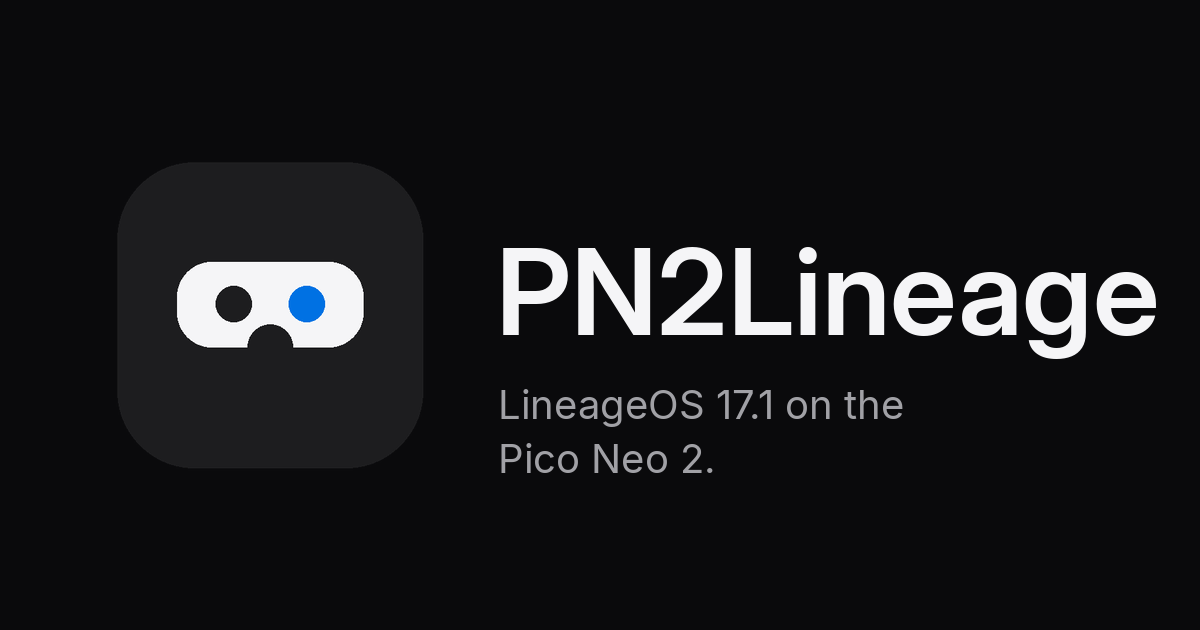
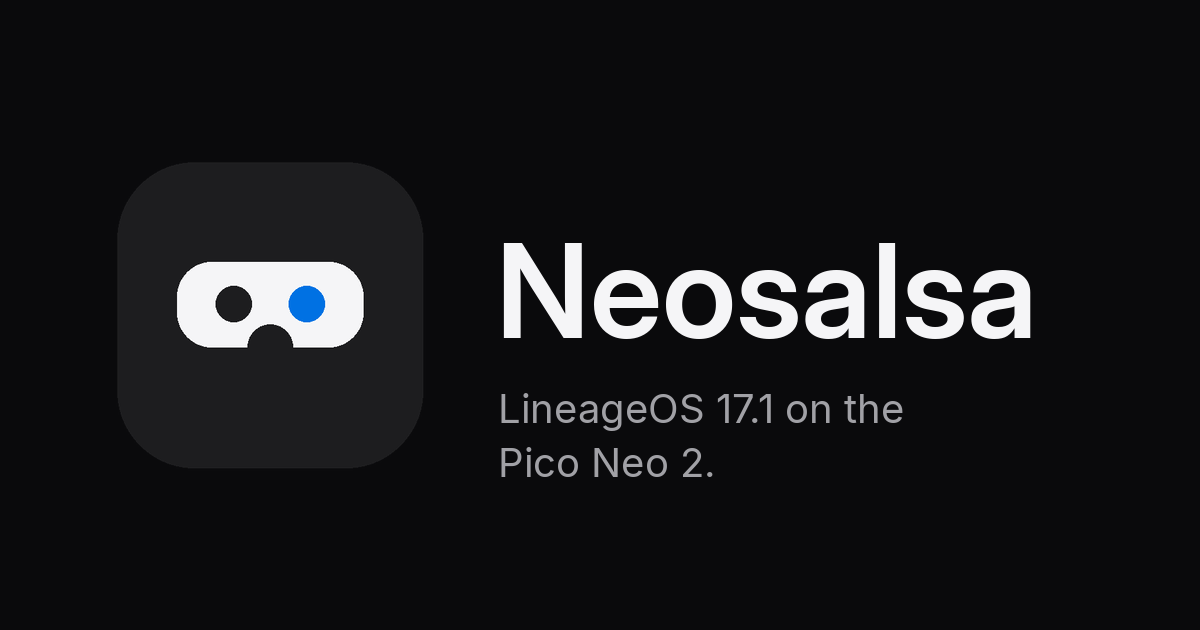
项目改名 Neosalsa

Changed region(s): [[0.4317, 0.3921, 0.9867, 0.573], [0.4008, 0.6032, 0.7708, 0.754]]

diff --git a/website/web/index.html b/website/web/index.html
@@ -5,12 +5,12 @@
 
   <meta charset="UTF-8">
   <meta content="IE=Edge" http-equiv="X-UA-Compatible">
-  <meta name="description" content="PN2Lineage - LineageOS 17.1 running on the Pico Neo 2 VR headset.">
+  <meta name="description" content="Neosalsa - LineageOS 17.1 running on the Pico Neo 2 VR headset.">
   <meta name="theme-color" content="#fbfbfd">
   <meta name="color-scheme" content="light dark">
 
   <meta property="og:type" content="website">
-  <meta property="og:title" content="PN2Lineage">
+  <meta property="og:title" content="Neosalsa">
   <meta property="og:description" content="LineageOS 17.1 on the Pico Neo 2 - vendor untouched, VR stack restored, all research in the open.">
   <meta property="og:image" content="og-cover.png">
   <meta name="twitter:card" content="summary_large_image">
@@ -18,13 +18,13 @@
   <!-- iOS meta tags & icons -->
   <meta name="mobile-web-app-capable" content="yes">
   <meta name="apple-mobile-web-app-status-bar-style" content="black">
-  <meta name="apple-mobile-web-app-title" content="PN2Lineage">
+  <meta name="apple-mobile-web-app-title" content="Neosalsa">
   <link rel="apple-touch-icon" href="icons/Icon-192.png">
 
   <!-- Favicon -->
   <link rel="icon" type="image/png" href="favicon.png"/>
 
-  <title>PN2Lineage</title>
+  <title>Neosalsa</title>
   <link rel="manifest" href="manifest.json">
 
   <style>
@@ -59,7 +59,7 @@
   </style>
 </head>
 <body>
-  <div id="loader"><span>PN2Lineage</span></div>
+  <div id="loader"><span>Neosalsa</span></div>
   <noscript>
     <div style="position:fixed;inset:0;display:flex;align-items:center;justify-content:center;font-family:sans-serif;">
       This site needs JavaScript - it is built with Flutter web.

diff --git a/website/lib/l10n/app_localizations_zh.dart b/website/lib/l10n/app_localizations_zh.dart
@@ -9,7 +9,7 @@ class AppLocalizationsZh extends AppLocalizations {
   AppLocalizationsZh([String locale = 'zh']) : super(locale);
 
   @override
-  String get appTitle => 'PN2Lineage';
+  String get appTitle => 'Neosalsa';
 
   @override
   String get navStatus => '现状';
@@ -534,7 +534,7 @@ class AppLocalizationsZh extends AppLocalizations {
 
   @override
   String get aboutWhatBody =>
-      'PN2Lineage 把 LineageOS 17.1——通过 phh GSI 实现的 Android 10——跑在了 Pico Neo 2 上,一台出厂只有 Android 8.1 和整套专有 VR 栈的头显。';
+      'Neosalsa 把 LineageOS 17.1——通过 phh GSI 实现的 Android 10——跑在了 Pico Neo 2 上,一台出厂只有 Android 8.1 和整套专有 VR 栈的头显。';
 
   @override
   String get aboutHowTitle => '怎么做到的';
@@ -590,5 +590,5 @@ class AppLocalizationsZh extends AppLocalizations {
   String get notFoundBody => '你要找的页面不存在。';
 
   @override
-  String get notFoundCta => '回到 PN2Lineage';
+  String get notFoundCta => '回到 Neosalsa';
 }

diff --git a/website/lib/l10n/app_localizations.dart b/website/lib/l10n/app_localizations.dart
@@ -101,7 +101,7 @@ abstract class AppLocalizations {
   /// Project name
   ///
   /// In en, this message translates to:
-  /// **'PN2Lineage'**
+  /// **'Neosalsa'**
   String get appTitle;
 
   /// No description provided for @navStatus.
@@ -1103,7 +1103,7 @@ abstract class AppLocalizations {
   /// No description provided for @aboutWhatBody.
   ///
   /// In en, this message translates to:
-  /// **'PN2Lineage runs LineageOS 17.1 - Android 10 via a phh GSI - on the Pico Neo 2, a headset that shipped with Android 8.1 and a heavily proprietary VR stack.'**
+  /// **'Neosalsa runs LineageOS 17.1 - Android 10 via a phh GSI - on the Pico Neo 2, a headset that shipped with Android 8.1 and a heavily proprietary VR stack.'**
   String get aboutWhatBody;
 
   /// No description provided for @aboutHowTitle.
@@ -1205,7 +1205,7 @@ abstract class AppLocalizations {
   /// No description provided for @notFoundCta.
   ///
   /// In en, this message translates to:
-  /// **'Back to PN2Lineage'**
+  /// **'Back to Neosalsa'**
   String get notFoundCta;
 }
 

diff --git a/website/test/widget_test.dart b/website/test/widget_test.dart
@@ -24,7 +24,7 @@ void main() {
     await tester.pumpWidget(await _app());
     await tester.pumpAndSettle();
 
-    expect(find.text('PN2Lineage'), findsWidgets);
+    expect(find.text('Neosalsa'), findsWidgets);
     expect(find.text('Status'), findsWidgets);
     expect(find.text('Repos'), findsWidgets);
     expect(find.text('See the status'), findsOneWidget);
@@ -86,7 +86,7 @@ void main() {
     await tester.pumpAndSettle();
 
     expect(find.text('Page not found'), findsOneWidget);
-    expect(find.text('Back to PN2Lineage'), findsOneWidget);
+    expect(find.text('Back to Neosalsa'), findsOneWidget);
   });
 
   testWidgets('zh locale renders translated chrome', (tester) async {
@@ -98,7 +98,7 @@ void main() {
     await tester.pumpWidget(SiteApp(settings: AppSettings(prefs)..load()));
     await tester.pumpAndSettle();
 
-    expect(find.text('PN2Lineage'), findsWidgets);
+    expect(find.text('Neosalsa'), findsWidgets);
     expect(find.text('现状'), findsWidgets);
     expect(find.text('查看现状'), findsOneWidget);
   });

diff --git a/website/lib/l10n/app_localizations_en.dart b/website/lib/l10n/app_localizations_en.dart
@@ -9,7 +9,7 @@ class AppLocalizationsEn extends AppLocalizations {
   AppLocalizationsEn([String locale = 'en']) : super(locale);
 
   @override
-  String get appTitle => 'PN2Lineage';
+  String get appTitle => 'Neosalsa';
 
   @override
   String get navStatus => 'Status';
@@ -577,7 +577,7 @@ class AppLocalizationsEn extends AppLocalizations {
 
   @override
   String get aboutWhatBody =>
-      'PN2Lineage runs LineageOS 17.1 - Android 10 via a phh GSI - on the Pico Neo 2, a headset that shipped with Android 8.1 and a heavily proprietary VR stack.';
+      'Neosalsa runs LineageOS 17.1 - Android 10 via a phh GSI - on the Pico Neo 2, a headset that shipped with Android 8.1 and a heavily proprietary VR stack.';
 
   @override
   String get aboutHowTitle => 'How it works';
@@ -633,5 +633,5 @@ class AppLocalizationsEn extends AppLocalizations {
   String get notFoundBody => 'The page you are looking for does not exist.';
 
   @override
-  String get notFoundCta => 'Back to PN2Lineage';
+  String get notFoundCta => 'Back to Neosalsa';
 }

diff --git a/website/lib/main.dart b/website/lib/main.dart
@@ -31,7 +31,7 @@ class _SiteAppState extends State<SiteApp> {
       child: ListenableBuilder(
         listenable: widget.settings,
         builder: (context, _) => MaterialApp.router(
-          title: 'PN2Lineage',
+          title: 'Neosalsa',
           onGenerateTitle: (context) => AppLocalizations.of(context).appTitle,
           debugShowCheckedModeBanner: false,
           theme: lightTheme(),

diff --git a/website/README.md b/website/README.md
@@ -1,6 +1,6 @@
 # website
 
-Project site for PN2Lineage - the LineageOS 17.1 port for the Pico Neo 2
+Project site for Neosalsa - the LineageOS 17.1 port for the Pico Neo 2
 VR headset. Covers the whole neosalsa group: the port, the software, the
 repository map and the research notes. Built with Flutter web, deployed
 to GitLab Pages.
